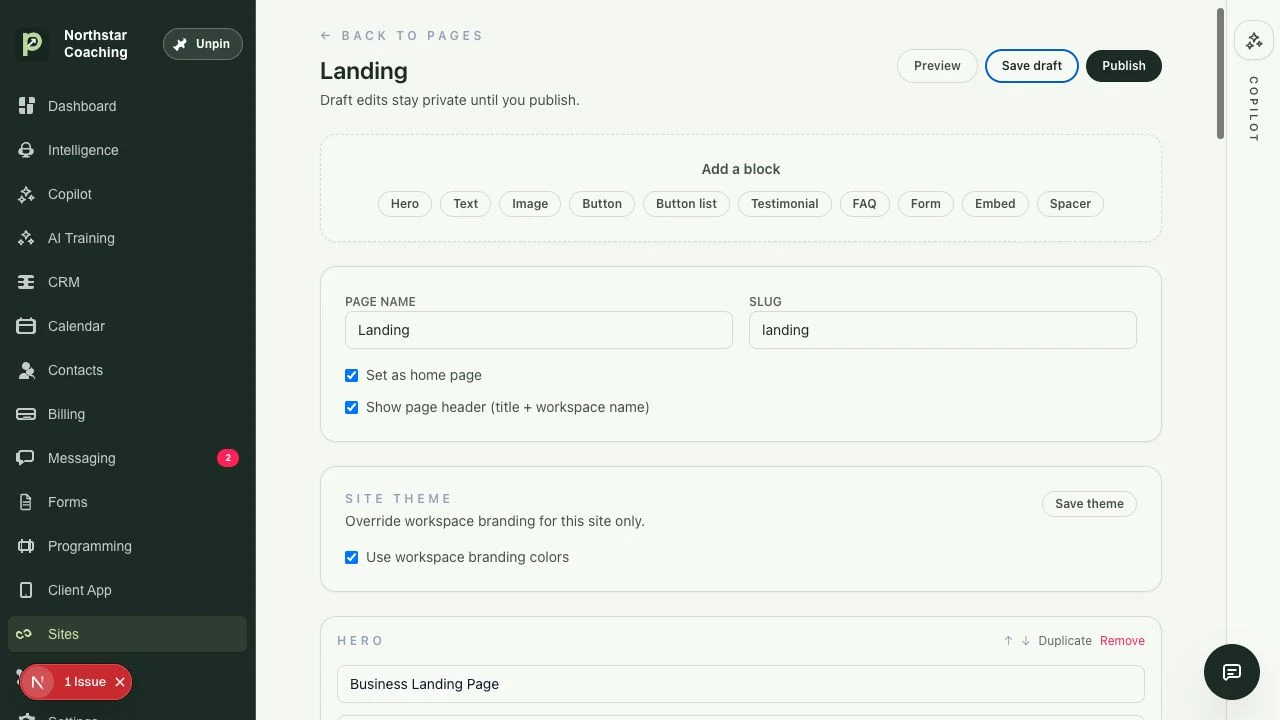
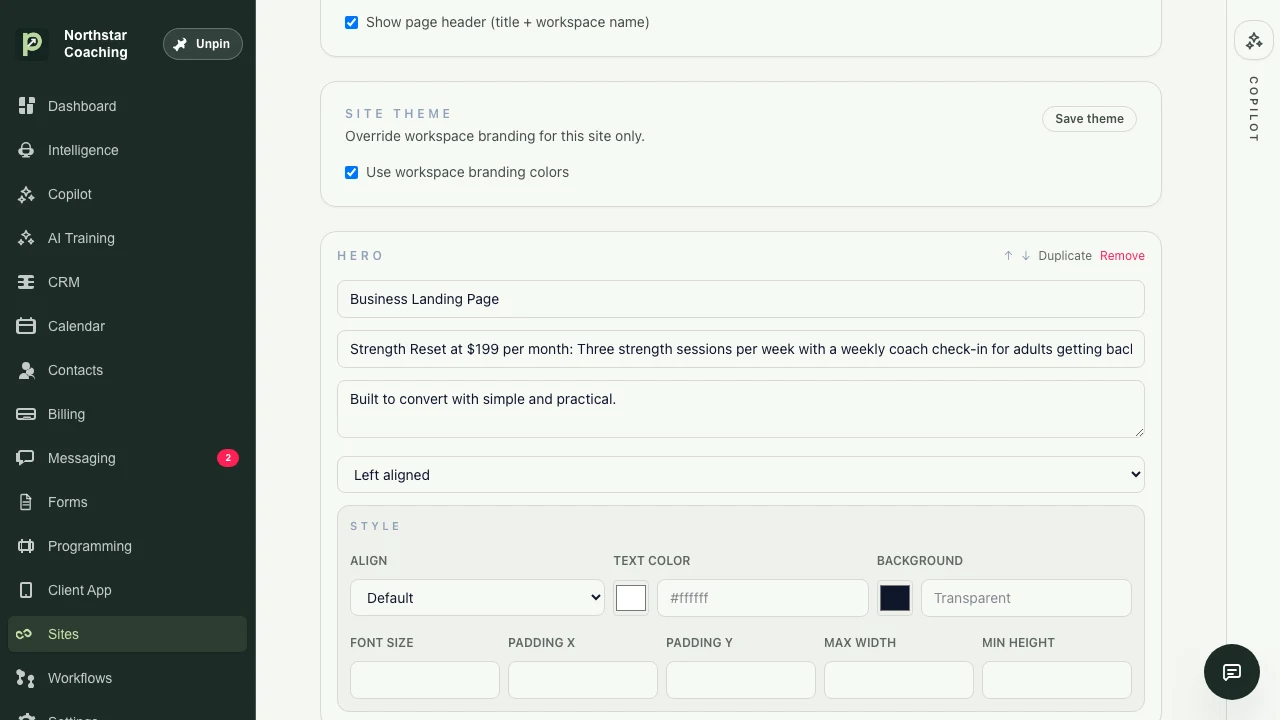
Show the saved landing page copy in the editor capture

diff --git a/powerstrong.html b/powerstrong.html
@@ -140,7 +140,7 @@ Review and approve the draft to create it in Sites.</blockquote></div></details>
     </li>
     <li class="flow-stage" id="flow-site-2">
       <header class="flow-stage-heading"><span class="flow-number">02</span><div><h4>Edit the page in Sites</h4><p>Approval creates a draft in Sites. The coach can revise the generated blocks and preview the page before publishing.</p></div></header>
-      <figure class="flow-frame"><button class="capture" data-zoom aria-label="Enlarge Edit the page in Sites"><img src="assets/powerstrong/action-site-editor.webp?v=20261125-layout" width="1280" height="720" alt="Sites editor showing the generated Strength Reset headline and subheading." loading="lazy"></button><figcaption>Sites · Editable Strength Reset page draft.</figcaption></figure>
+      <figure class="flow-frame"><button class="capture" data-zoom aria-label="Enlarge Edit the page in Sites"><img src="assets/powerstrong/action-site-editor.webp?v=20261125-result" width="1280" height="720" alt="Sites editor showing the generated Strength Reset headline and subheading." loading="lazy"></button><figcaption>Sites · Editable Strength Reset page draft.</figcaption></figure>
     </li>
   </ol>
 </div>
